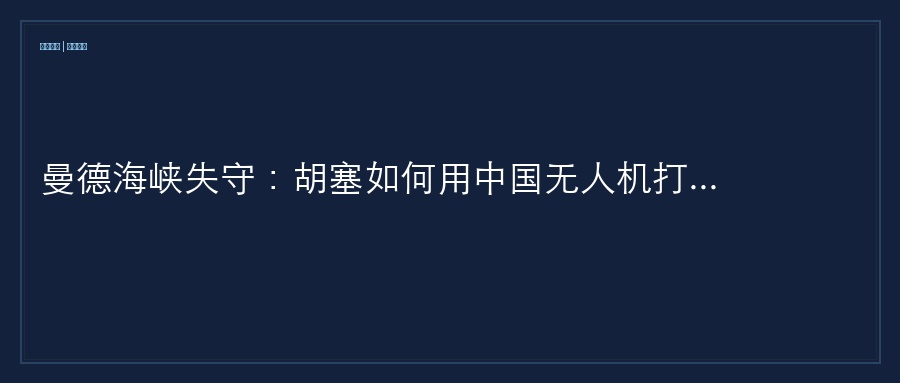
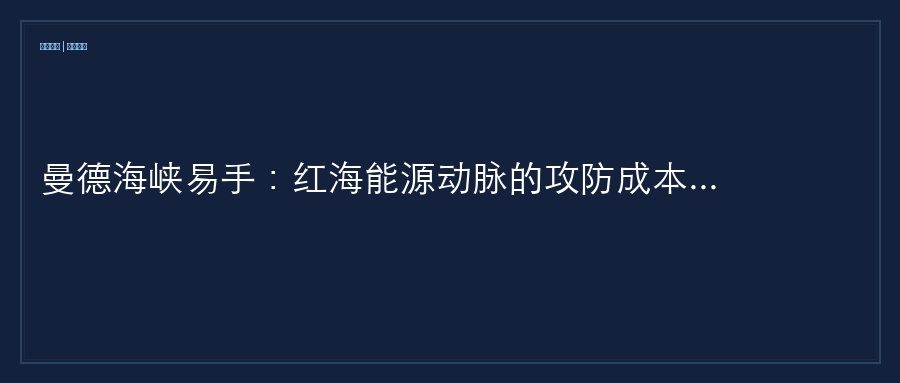
feat: 接入 Kwai-Kolors 真实大片生图

Changed region(s): [[0.3111, 0.4021, 0.7778, 0.517], [0.1867, 0.4308, 0.28, 0.517]]

diff --git a/core/image_service.py b/core/image_service.py
@@ -23,7 +23,7 @@ class ImageService:
     @staticmethod
     def generate_ai_flux_image(prompt: str, output_path: str = "assets/flux_illustration.jpg") -> Optional[str]:
         """
-        调用 SiliconFlow 顶级的 FLUX.1 文生图模型生成电影级写实插图
+        调用 SiliconFlow Kwai-Kolors/Kolors 顶级文生图模型生成电影级写实插图
         """
         api_key = settings.LLM_API_KEY
         if not api_key:
@@ -39,31 +39,30 @@ class ImageService:
         }
 
         # 增强提示词，注入冷色调军事新闻纪实摄影质感
-        enhanced_prompt = f"{prompt}, professional military documentary photography, cinematic 8k, detailed, realistic, cold color grading, award winning journalism"
+        enhanced_prompt = f"{prompt}，军事纪实摄影，冷色调，超高清，8k细节，真实大片质感"
 
         payload = {
-            "model": "black-forest-labs/FLUX.1-schnell",
+            "model": "Kwai-Kolors/Kolors",
             "prompt": enhanced_prompt,
-            "image_size": "1024x576",  # 16:9 宽幅视觉
-            "batch_size": 1,
-            "num_inference_steps": 4
+            "image_size": "1024x1024",
+            "batch_size": 1
         }
 
-        logger.info(f"正在调用 FLUX.1 生成电影级战场配图: {prompt[:30]}...")
+        logger.info(f"正在调用 Kolors 生成电影级战场配图: {prompt[:30]}...")
         try:
-            resp = requests.post(url, headers=headers, json=payload, timeout=40)
+            resp = requests.post(url, headers=headers, json=payload, timeout=45)
             data = resp.json()
             if "images" in data and len(data["images"]) > 0:
                 img_url = data["images"][0]["url"]
-                img_resp = requests.get(img_url, timeout=20)
+                img_resp = requests.get(img_url, timeout=25)
                 with open(out, "wb") as f:
                     f.write(img_resp.content)
-                logger.info(f"🎉 FLUX.1 电影级战场配图生成成功: {out}")
+                logger.info(f"🎉 电影级战场配图生成成功: {out}")
                 return str(out)
             else:
-                logger.warning(f"FLUX.1 出图返回信息: {data}")
+                logger.warning(f"生图返回信息: {data}")
         except Exception as e:
-            logger.warning(f"调用 FLUX.1 出图失败: {e}")
+            logger.warning(f"调用 AI 出图失败: {e}")
 
         return None
 
